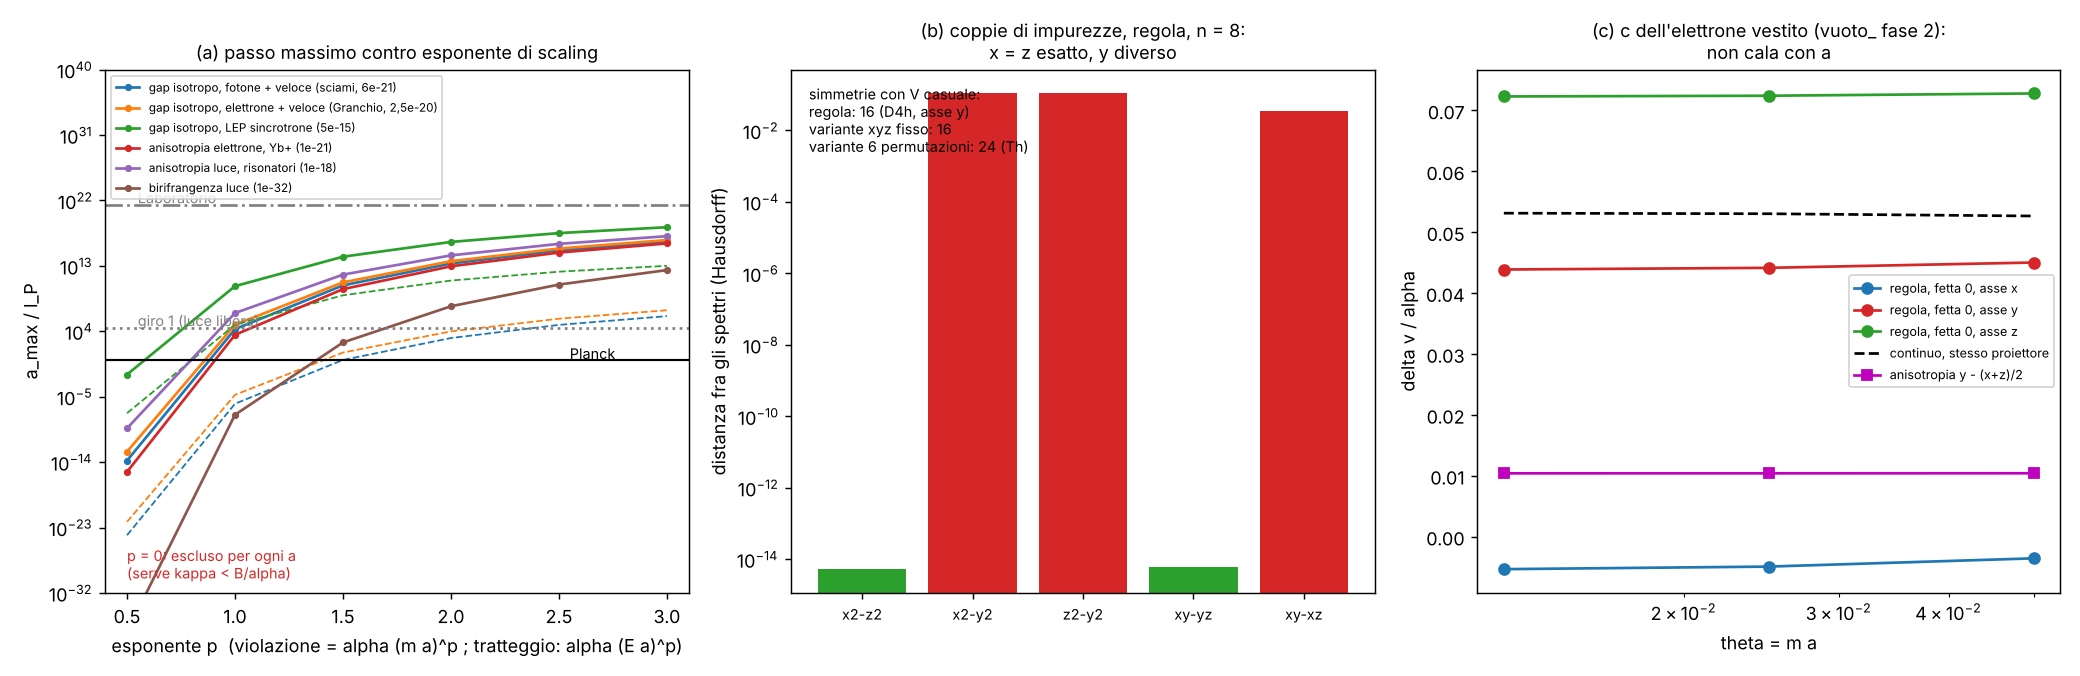
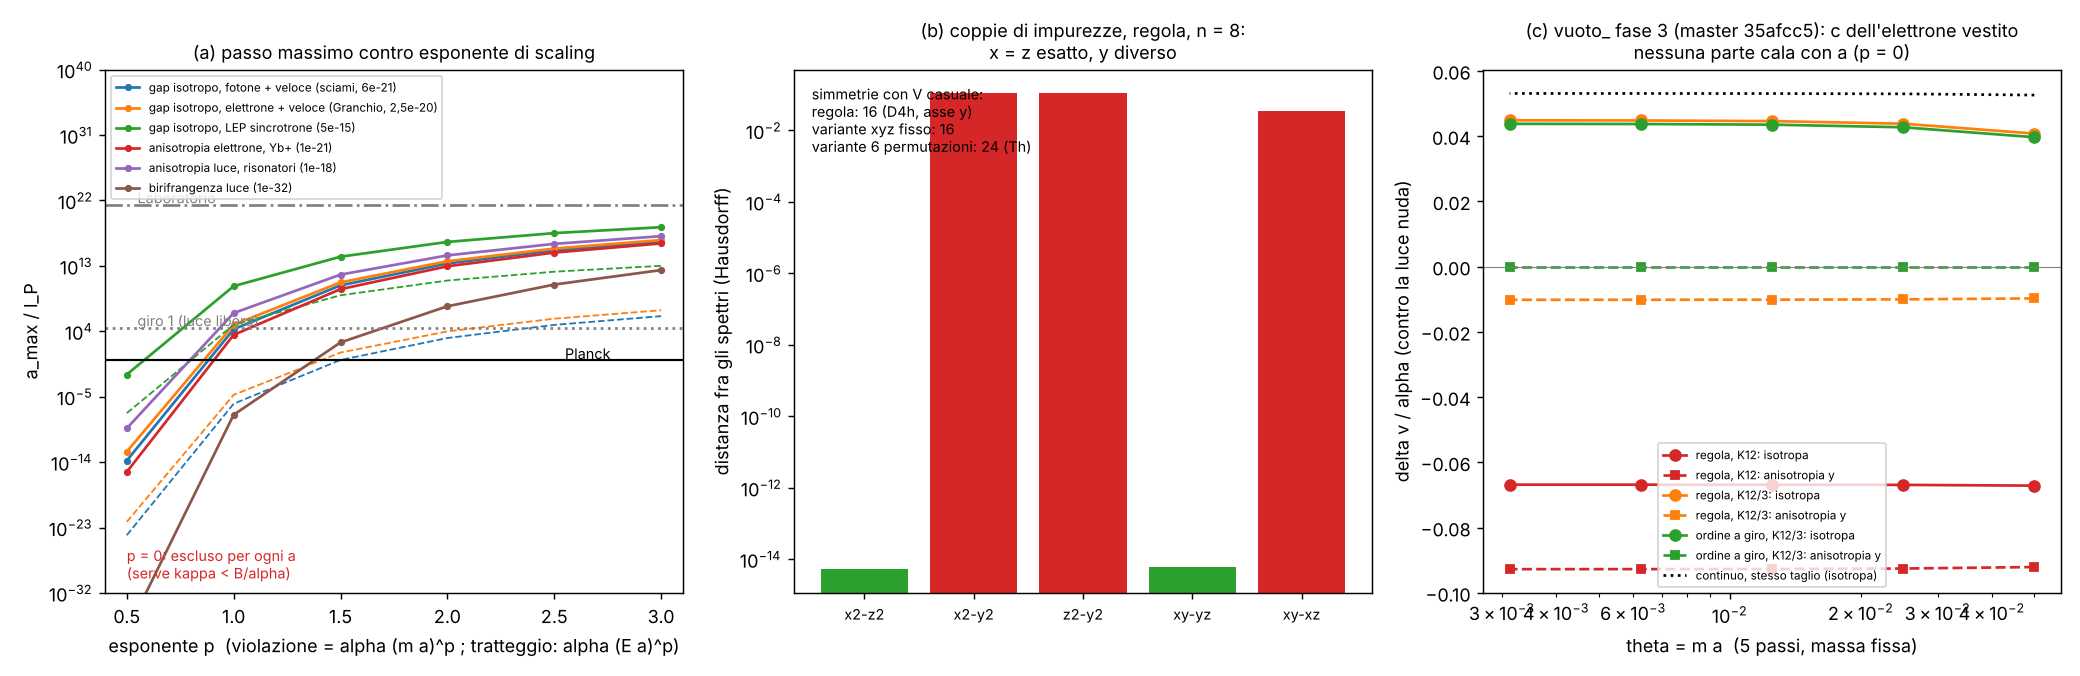
lvloop_: verdetto con la fase 3 di vuoto_ (master 35afcc5): p = q = 0; regola congelata esclusa per qualunque a (anisotropia y 7e-5..7e-4 contro Yb+ 1e-21); ordine a giro esclusa con riserva (gap isotropo +0,044 alpha contro la luce nuda: il vestito del fotone dovrebbe compensare a 1 su 1e16-1e17); 

diff --git a/lab/lvloop_figure.py b/lab/lvloop_figure.py
@@ -2,8 +2,8 @@
 (a) maximum lattice step a_max (Planck units) vs scaling exponent p of a loop-induced Lorentz violation
     delta = alpha * kappa * theta^p (kappa = 1), for each bound, mass-type (solid) and momentum-type (dashed);
 (b) symmetry of the interacting rule (lvloop_sym.json): spectral distance for pairs of impurities, and group sizes;
-(c) the dressed-electron speed counterterm of vuoto_ phase 2 (read from origin/master, slice 0) vs theta.
-Usage: python lvloop_figure.py [path to vuoto_f2_exams.json from origin/master]"""
+(c) the dressed-electron limiting speed of vuoto_ phase 3 (exact engine, origin/master 35afcc5) vs theta.
+Usage: python lvloop_figure.py <vuoto_f2_exams.json> <vuoto_f3_exams.json>  (both from origin/master via git show)"""
 import os, sys, json
 import numpy as np
 import matplotlib
@@ -53,18 +53,26 @@ b.text(0.03, 0.97, txt, transform=b.transAxes, va="top", fontsize=8)
 b.set_title("(b) coppie di impurezze, regola, n = 8:\nx = z esatto, y diverso", fontsize=10)
 
 c = ax[2]
-if f2path and os.path.exists(f2path):
+f3path = sys.argv[2] if len(sys.argv) > 2 else None
+if f3path and os.path.exists(f3path):
+    t = json.load(open(f3path))["table"]
+    th = [r["theta"] for r in t["R|K12"]["rows"]]
+    for key, col, nm in (("R|K12", "C3", "regola, K12"), ("R|K12/3", "C1", "regola, K12/3"), ("C|K12/3", "C2", "ordine a giro, K12/3")):
+        rows = t[key]["rows"]
+        c.plot(th, [r["iso"] for r in rows], "-o", color=col, label=nm + ": isotropa")
+        c.plot(th, [r["aniso"] for r in rows], "--s", color=col, ms=4, label=nm + ": anisotropia y")
+    c.plot(th, t["cont|K12"]["dv"], "k:", label="continuo, stesso taglio (isotropa)")
+    c.axhline(0, color="gray", lw=0.6)
+    c.set_xscale("log"); c.set_xlabel("theta = m a  (5 passi, massa fissa)"); c.set_ylabel("delta v / alpha (contro la luce nuda)")
+    c.legend(fontsize=6.5)
+    c.set_title("(c) vuoto_ fase 3 (master 35afcc5): c dell'elettrone vestito\nnessuna parte cala con a (p = 0)", fontsize=10)
+elif f2path and os.path.exists(f2path):
     f2 = json.load(open(f2path))
-    th = sorted(float(t) for t in f2["G1"]["table"])
-    dv = np.array([f2["G1"]["table"][str(t)]["dv_over_alpha"] for t in th])
-    dv0 = np.array([f2["G0"]["table"][str(t)]["dv_over_alpha"] for t in th])
+    th = sorted(float(x) for x in f2["G1"]["table"])
+    dv = np.array([f2["G1"]["table"][str(x)]["dv_over_alpha"] for x in th])
     for j, (nm, col) in enumerate((("x", "C0"), ("y", "C3"), ("z", "C2"))):
-        c.plot(th, dv[:, j], "-o", color=col, label="regola, fetta 0, asse " + nm)
-    c.plot(th, dv0[:, 0], "k--", label="continuo, stesso proiettore")
-    c.plot(th, dv[:, 1] - 0.5 * (dv[:, 0] + dv[:, 2]), "m-s", label="anisotropia y - (x+z)/2")
-    c.set_xscale("log"); c.set_xlabel("theta = m a"); c.set_ylabel("delta v / alpha")
-    c.legend(fontsize=7)
-c.set_title("(c) c dell'elettrone vestito (vuoto_ fase 2):\nnon cala con a", fontsize=10)
+        c.plot(th, dv[:, j], "-o", color=col, label="fase 2, asse " + nm)
+    c.set_xscale("log"); c.legend(fontsize=7)
 plt.tight_layout()
 out = os.path.join(here, "out", "lvloop_figura.png")
 plt.savefig(out, dpi=130)

diff --git a/lab/lvloop_verdetto.py b/lab/lvloop_verdetto.py
@@ -1,0 +1,43 @@
+"""lvloop_verdetto.py - apply the pre-registered conditional table (lvloop_prereg.json) to the phase-3 numbers of
+vuoto_ (origin/master 35afcc5, lab/out/vuoto_f3_exams.json, read with git show and passed as argument).
+Usage: git show origin/master:lab/out/vuoto_f3_exams.json > /tmp/f3.json; python lvloop_verdetto.py /tmp/f3.json
+-> lab/out/lvloop_verdetto.json"""
+import os, sys, json
+import lvloop_prereg as P
+
+f3 = json.load(open(sys.argv[1]))["table"]
+B = P.BOUNDS
+best = {
+    "aniso_e": B["aniso_electron"][1]["B"],             # Yb+ 2022, 1e-21
+    "aniso_e_2019": B["aniso_electron"][0]["B"],        # Yb+ 2019, 1.6e-20
+    "iso_e_faster_astro": B["iso_electron_faster"][0]["B"],   # 2.5e-20 (Crab, indicative)
+    "iso_g_faster_astro": B["iso_photon_faster"][0]["B"],     # 6e-21 (photon decay, showers)
+    "iso_two_sided_LEP": B["iso_two_sided"][0]["B"],          # 5e-15 (LEP synchrotron, robust)
+}
+out = {"source": "origin/master 35afcc5 lab/out/vuoto_f3_exams.json", "alpha": P.ALPHA, "bounds": best, "cases": {}}
+for key, label in (("R|K12", "regola congelata, taglio K12"), ("R|K12/3", "regola congelata, taglio K12/3"),
+                   ("C|K12/3", "ordine a giro (proposta), taglio K12/3")):
+    t = f3[key]
+    an0, an1 = t["aniso_fit"][0], t["aniso_fit"][1]
+    is0, is1 = t["iso_fit"][0], t["iso_fit"][1]
+    an_abs, is_abs = abs(an0) * P.ALPHA, abs(is0) * P.ALPHA
+    c = {"label": label, "aniso_a0_over_alpha": an0, "aniso_slope": an1, "iso_a0_over_alpha": is0, "iso_slope": is1,
+         "scaling_exponent": 0, "aniso_abs": an_abs, "iso_abs": is_abs,
+         "iso_sign": "elettrone piu' veloce della luce nuda (Cherenkov nel vuoto)" if is0 > 0 else
+                     "elettrone piu' lento della luce nuda (decadimento del fotone)"}
+    if an_abs > 1e-10:   # cyclic order: anisotropy is zero by symmetry (fit 5.6e-13 alpha = numerical zero)
+        c["aniso_over_bound_Yb2022"] = an_abs / best["aniso_e"]
+        c["aniso_over_bound_Yb2019"] = an_abs / best["aniso_e_2019"]
+        c["aniso_verdict"] = "p = 0: ESCLUSA per qualunque a (pre-registrato R2)"
+    else:
+        c["aniso_verdict"] = "zero per simmetria (T_h): nessun limite"
+    astro = best["iso_e_faster_astro"] if is0 > 0 else best["iso_g_faster_astro"]
+    c["iso_over_bound_astro"] = is_abs / astro
+    c["iso_over_bound_LEP"] = is_abs / best["iso_two_sided_LEP"]
+    c["iso_verdict"] = ("p = 0: ESCLUSA per qualunque a CON RISERVA (misurato contro la luce NUDA): per salvarla il "
+                        "vestito della luce deve compensare quello dell'elettrone entro 1 parte su %.0e (astro) / %.0e (LEP)"
+                        % (is_abs / astro, is_abs / best["iso_two_sided_LEP"]))
+    out["cases"][key] = c
+    print(label, json.dumps({k: v for k, v in c.items() if k != "label"}, indent=0, default=float))
+json.dump(out, open(os.path.join(os.path.dirname(os.path.abspath(__file__)), "out", "lvloop_verdetto.json"), "w"),
+          indent=1, ensure_ascii=False, default=float)
